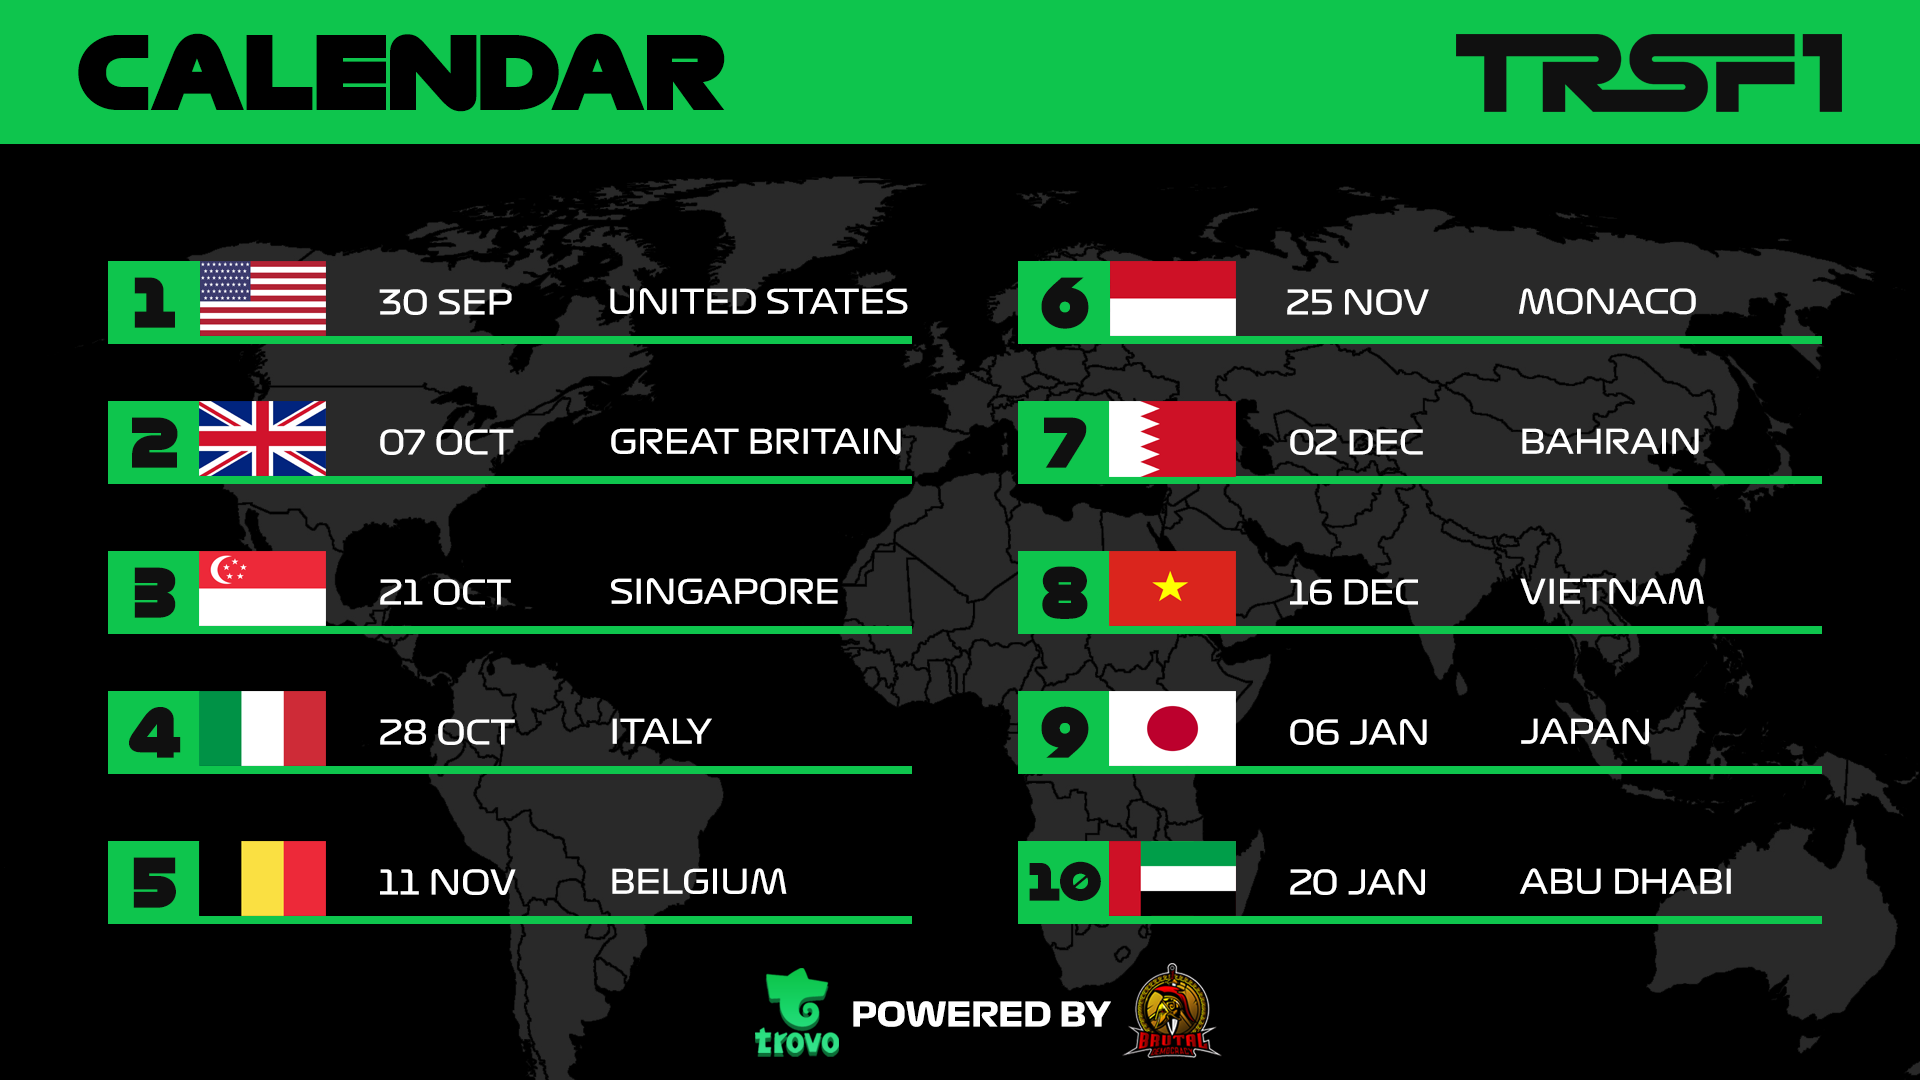
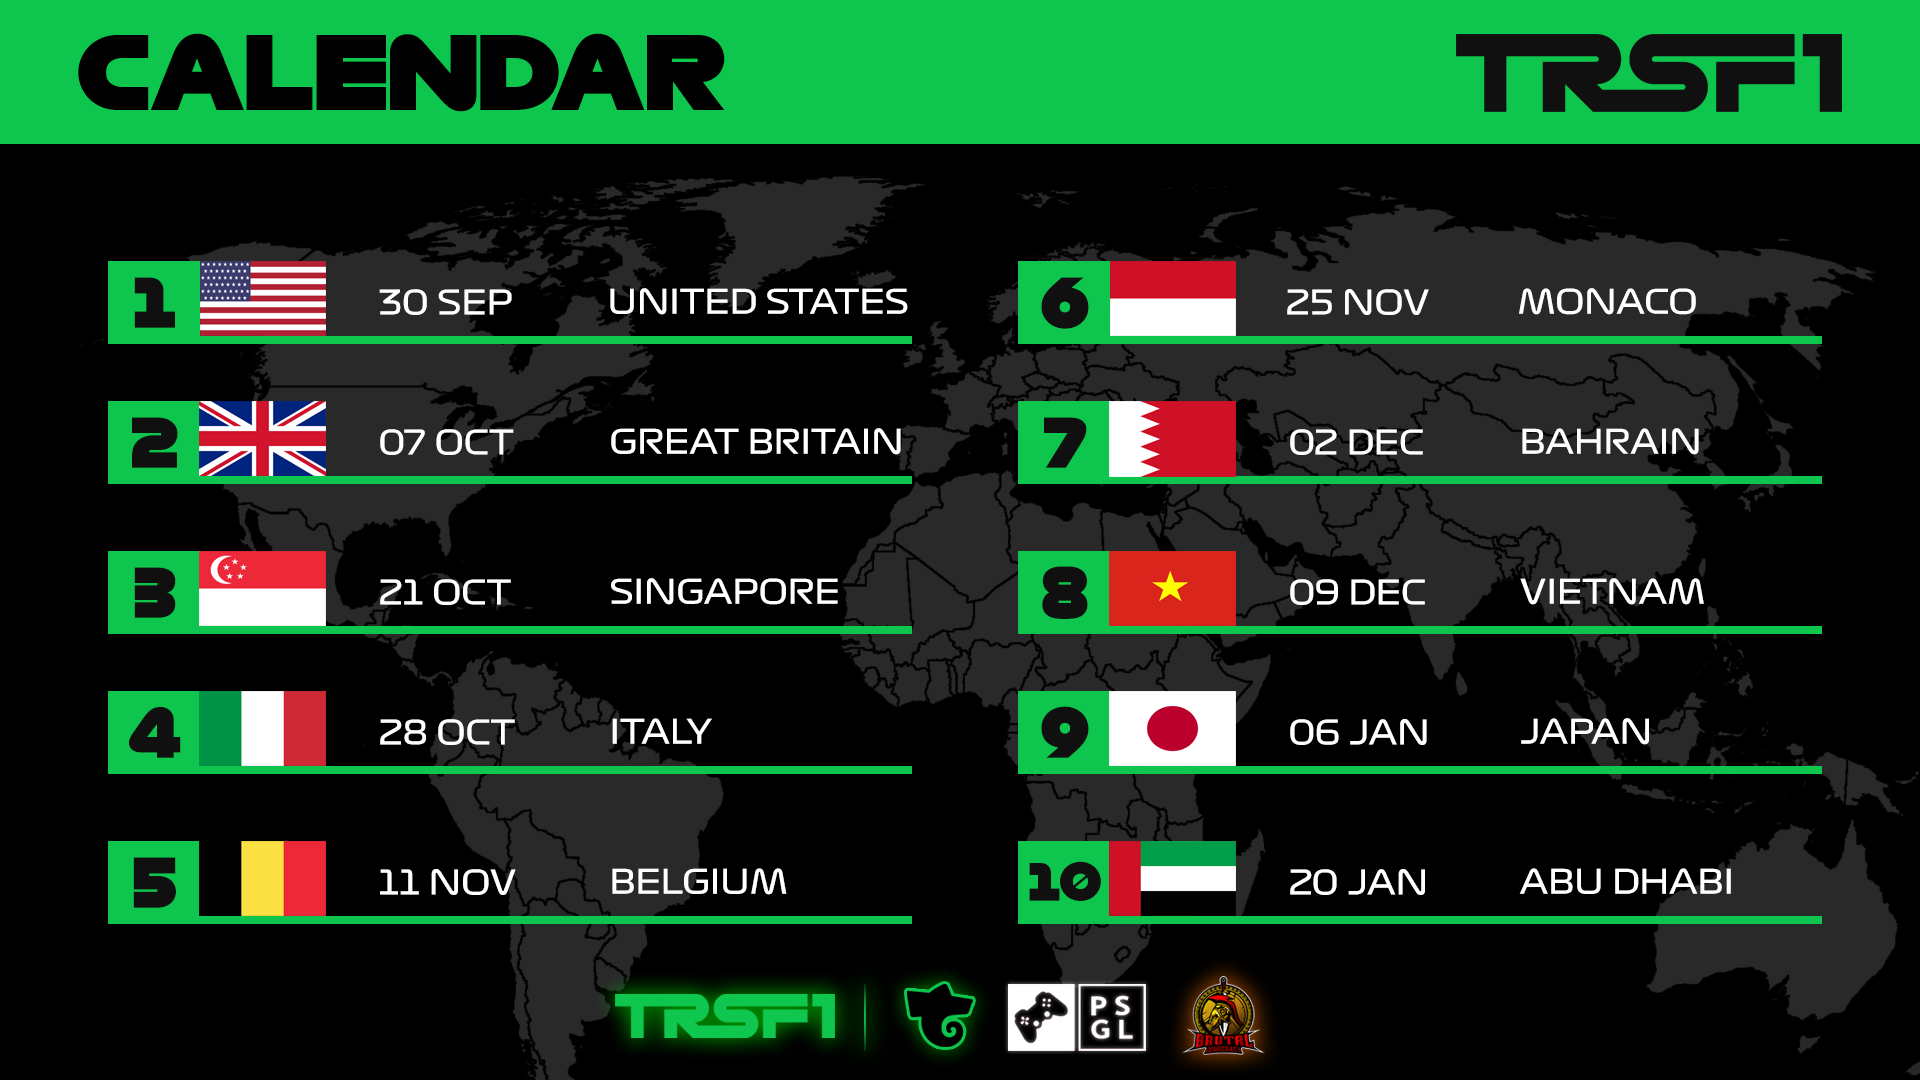
Remove s26 LFS. Update calendar.

Changed region(s): [[0.3125, 0.8861, 0.6875, 1.0], [0.6562, 0.5194, 0.75, 0.5806]]

diff --git a/_custom_pages/Brutal-Democracy.md b/_custom_pages/Brutal-Democracy.md
@@ -23,7 +23,9 @@ Brutal Democracy Gaming is a professional Esports organisation specialising in c
 
 Main Website: [https://www.brutaldemocracy.com/](https://www.brutaldemocracy.com/ "https\://www.brutaldemocracy.com/")
 
-Twitter: [https://twitter.com/BDG_Esports](https://twitter.com/BDG_Esports "https\://twitter.com/BDG_Esports")
+Twitter: [https://twitter.com/BDGesports](https://twitter.com/BDGesports "https\://twitter.com/BDGesports")
+
+Trovo: [https://trovo.live/BrutalDemocracy](https://trovo.live/BrutalDemocracy "https\://trovo.live/BrutalDemocracy")
 
 Twitch: [https://www.twitch.tv/onebrutalforce](https://www.twitch.tv/onebrutalforce "https\://www.twitch.tv/onebrutalforce")
 

diff --git a/_custom_pages/calendar.md b/_custom_pages/calendar.md
@@ -1,6 +1,6 @@
 ---
 layout: page
-title: F1 2020 Season 26 Calendar
+title: F1 2020 Season 27 Calendar
 permalink: '/f12020/calendar/'
 menu_title: Calendar
 menu_icon: /assets/site-img/f1-2020.png
@@ -10,6 +10,6 @@ menu_order: 3
 
 <div class="center">
 
-![](/f12020/calendar.png)
+![](/assets/site-img/psgl-s27-calendar.jpg)
 
 </div>
